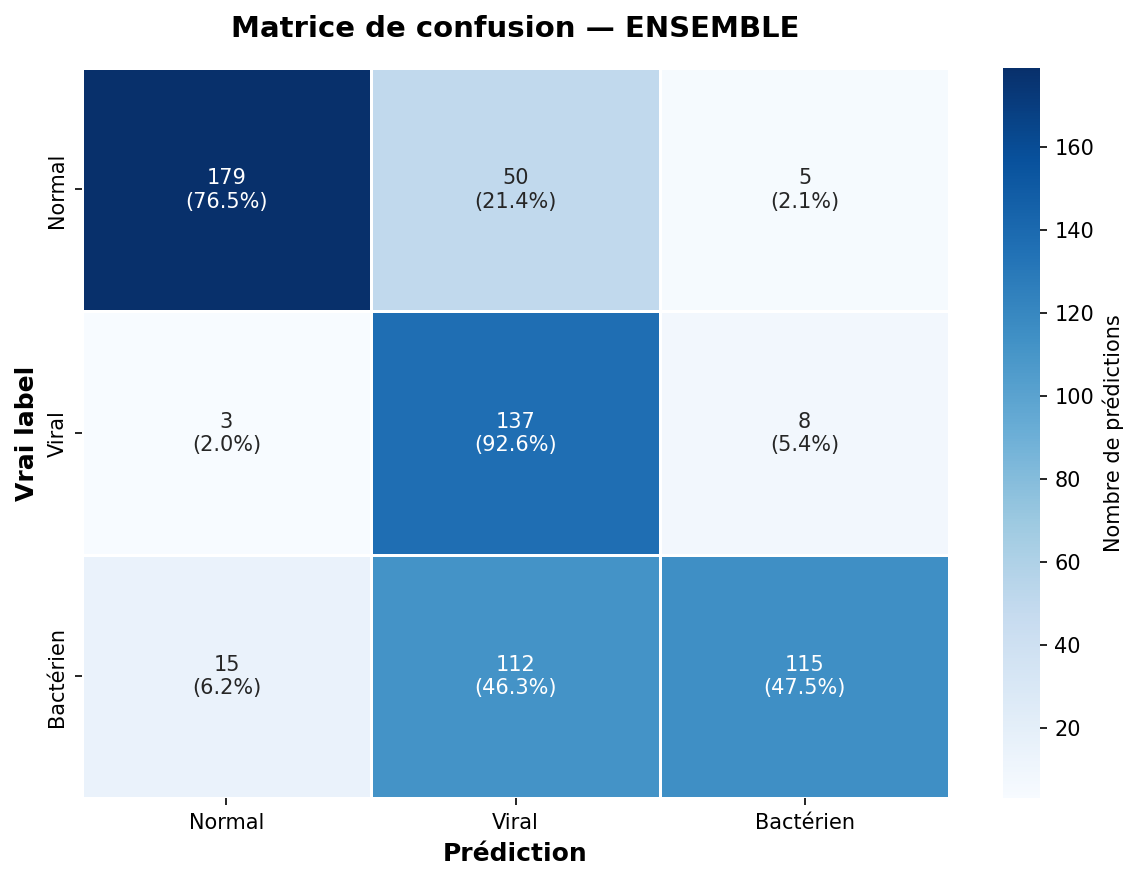
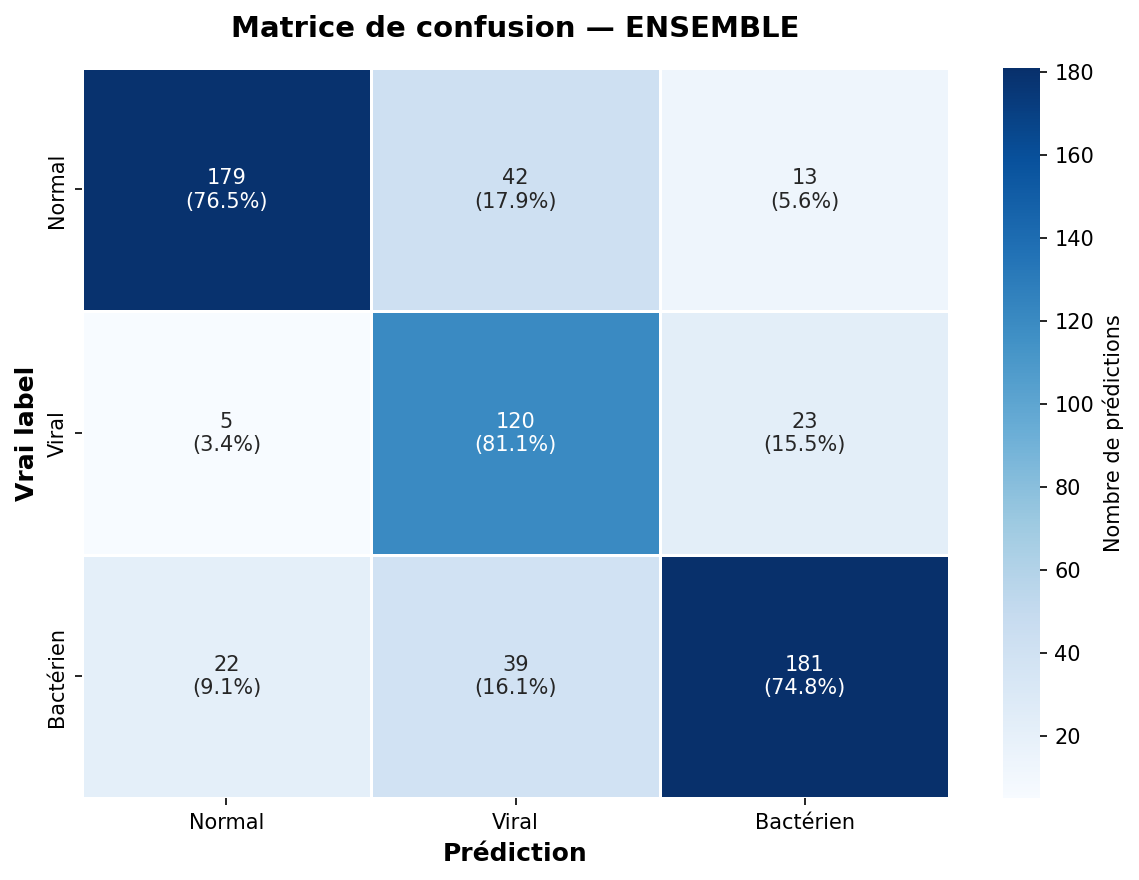
fix(registry/main): degel du resnet, augmentation du dropout et le max_lr

diff --git a/main.py b/main.py
@@ -13,6 +13,7 @@ import os
 import argparse
 import torch
 import torch.nn as nn
+import torch.nn.functional as F
 import torch.optim as optim
 from torch.optim.lr_scheduler import ReduceLROnPlateau, OneCycleLR
 from torch.utils.data import DataLoader, WeightedRandomSampler
@@ -73,26 +74,16 @@ def resolve_model_names(selection):
 def train_single_model(name, train_loader, val_loader, class_weights, device):
     """
     Entraîne un seul modèle avec :
-    - Label smoothing
-    - Mixup data augmentation
+    - Focal Loss
+    - Pas de Mixup (désactivé pour l'imagerie fine)
     - Gradient accumulation
-    - ReduceLROnPlateau scheduler
-
-    Args:
-        name: Nom du modèle (clé du registre)
-        train_loader: DataLoader d'entraînement
-        val_loader: DataLoader de validation
-        class_weights: Tensor de poids pour la loss
-        device: Device (cuda/cpu)
-
-    Returns:
-        Chemin vers le fichier de poids sauvegardé
+    - OneCycleLR scheduler
     """
     print(f"\n{'='*50}")
     print(f"  ENTRAÎNEMENT : {name.upper()}")
     print(f"{'='*50}")
     print(f"  Config : BS={BATCH_SIZE} | LR={LR} | Label Smooth={LABEL_SMOOTHING}")
-    print(f"           Mixup α={MIXUP_ALPHA} | Grad Accum={GRAD_ACCUM_STEPS}")
+    print(f"           Mixup α={MIXUP_ALPHA} (Désactivé) | Grad Accum={GRAD_ACCUM_STEPS}")
 
     model = get_model(name, num_classes=NUM_CLASSES).to(device)
 
@@ -101,24 +92,27 @@ def train_single_model(name, train_loader, val_loader, class_weights, device):
     total = sum(p.numel() for p in model.parameters())
     print(f"  Params : {trainable:,} entraînables / {total:,} total ({trainable/total*100:.1f}%)")
 
-    # Augmentation du poids de la classe "Normal" (index 0)
     criterion = nn.CrossEntropyLoss(label_smoothing=LABEL_SMOOTHING)
 
     optimizer = optim.Adam(
         filter(lambda p: p.requires_grad, model.parameters()),
         lr=LR,
+        weight_decay=1e-4,
     )
 
     # LR Scheduler : OneCycleLR
     scheduler = OneCycleLR(
         optimizer,
-        max_lr=LR * 10,
+        max_lr=LR * 3,
         epochs=EPOCHS,
         steps_per_epoch=len(train_loader)
     )
 
     model_path = os.path.join(MODELS_DIR, f"{name}.pth")
-    best_val_loss = float("inf")
+    
+    # --- CORRECTION DE LA SAUVEGARDE (TRACKING DE L'ACCURACY) ---
+    best_val_acc = 0.0
+    best_val_loss = float("inf") # Uniquement utilisé pour l'Early Stopping
 
     # Si un précédent modèle existe, on récupère son score comme baseline
     if os.path.exists(model_path):
@@ -127,8 +121,9 @@ def train_single_model(name, train_loader, val_loader, class_weights, device):
             torch.load(model_path, map_location=device, weights_only=True)
         )
         prev_val_loss, prev_acc = validate(prev_model, val_loader, criterion, device)
+        best_val_acc = prev_acc
         best_val_loss = prev_val_loss
-        print(f"  Score à battre → Val Loss: {best_val_loss:.4f} | Acc: {prev_acc*100:.2f}%")
+        print(f"  Score à battre → Val Acc: {best_val_acc*100:.2f}% | (Loss: {prev_val_loss:.4f})")
         del prev_model
 
     early_stopper = EarlyStopper(patience=PATIENCE)
@@ -139,7 +134,7 @@ def train_single_model(name, train_loader, val_loader, class_weights, device):
 
         train_loss = train_one_epoch(
             model, train_loader, criterion, optimizer, device,
-            use_mixup=False, mixup_alpha=MIXUP_ALPHA,
+            use_mixup=False, mixup_alpha=MIXUP_ALPHA,  # Mixup est bien en False
             grad_accum_steps=GRAD_ACCUM_STEPS,
             scheduler=scheduler
         )
@@ -147,12 +142,11 @@ def train_single_model(name, train_loader, val_loader, class_weights, device):
 
         print(f"  Train Loss: {train_loss:.4f} | Val Loss: {val_loss:.4f} | Val Acc: {val_acc*100:.2f}%")
 
-
+        # Sauvegarde basée UNIQUEMENT sur l'amélioration de l'Accuracy
         if val_acc > best_val_acc:
             best_val_acc = val_acc
             torch.save(model.state_dict(), model_path)
-            print(f"  🌟 Nouveau record ! Sauvegardé dans {model_path}")
-
+            print(f"  🌟 Nouveau record ! Sauvegardé dans {model_path} (Acc: {best_val_acc*100:.2f}%)")
 
         early_stopper(val_loss)
         if early_stopper.early_stop:

diff --git a/src/models/registry.py b/src/models/registry.py
@@ -41,7 +41,8 @@ def _build_efficientnet_b0(num_classes):
         param.requires_grad = False
         
     # Dégeler les dernières couches de features (ex: features[-2:])
-    for param in model.features[-2:].parameters():
+
+    for param in model.features[-4:].parameters():
         param.requires_grad = True
 
     # Remplacement du classifieur (in_features = 1280 pour EfficientNet-B0)
@@ -60,18 +61,18 @@ def _build_resnet50(num_classes):
     """
     model = models.resnet50(weights=models.ResNet50_Weights.IMAGENET1K_V1)
 
-    # Dégel partiel : geler l'essentiel du modèle
+    # Geler tout le backbone
     for param in model.parameters():
         param.requires_grad = False
         
-    # Dégeler le dernier bloc (layer4)
-    for param in model.layer4[-1].parameters():
-        param.require_grad = True
+    # Dégeler tout layer4 (3 Bottleneck blocks)
+    for param in model.layer4.parameters():
+        param.requires_grad = True
 
     # Remplacement de la couche fc
     num_ftrs = model.fc.in_features
     model.fc = nn.Sequential(
-        nn.Dropout(0.3),
+        nn.Dropout(0.5),
         nn.Linear(num_ftrs, num_classes),
     )
     return model
